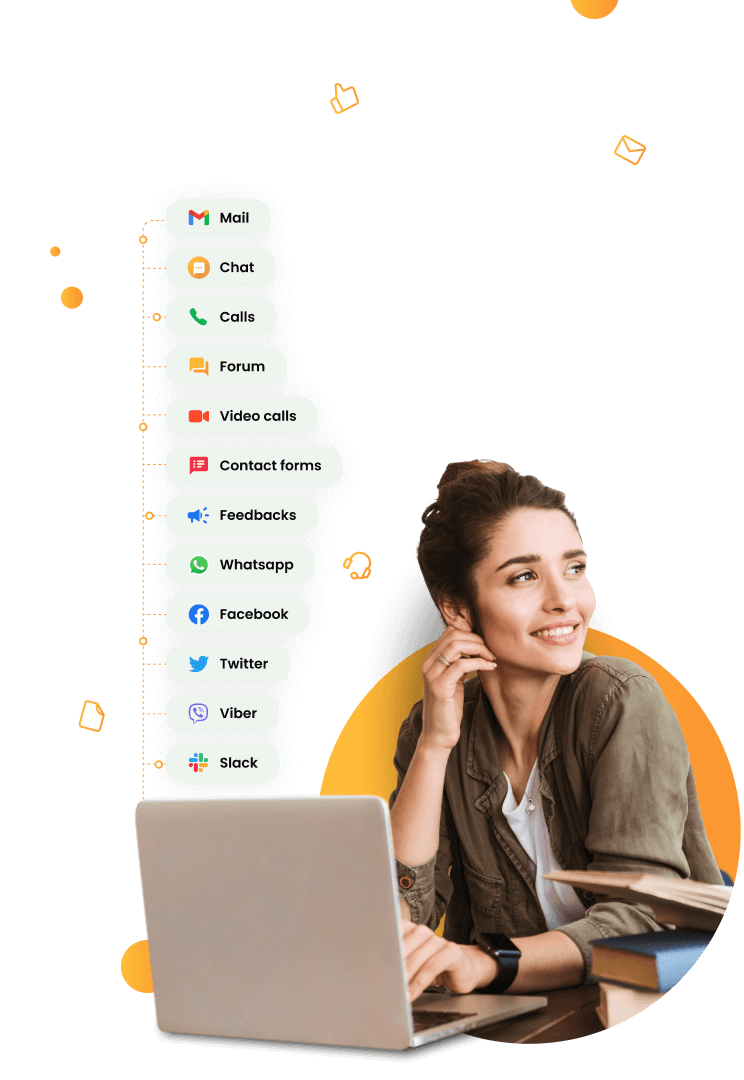
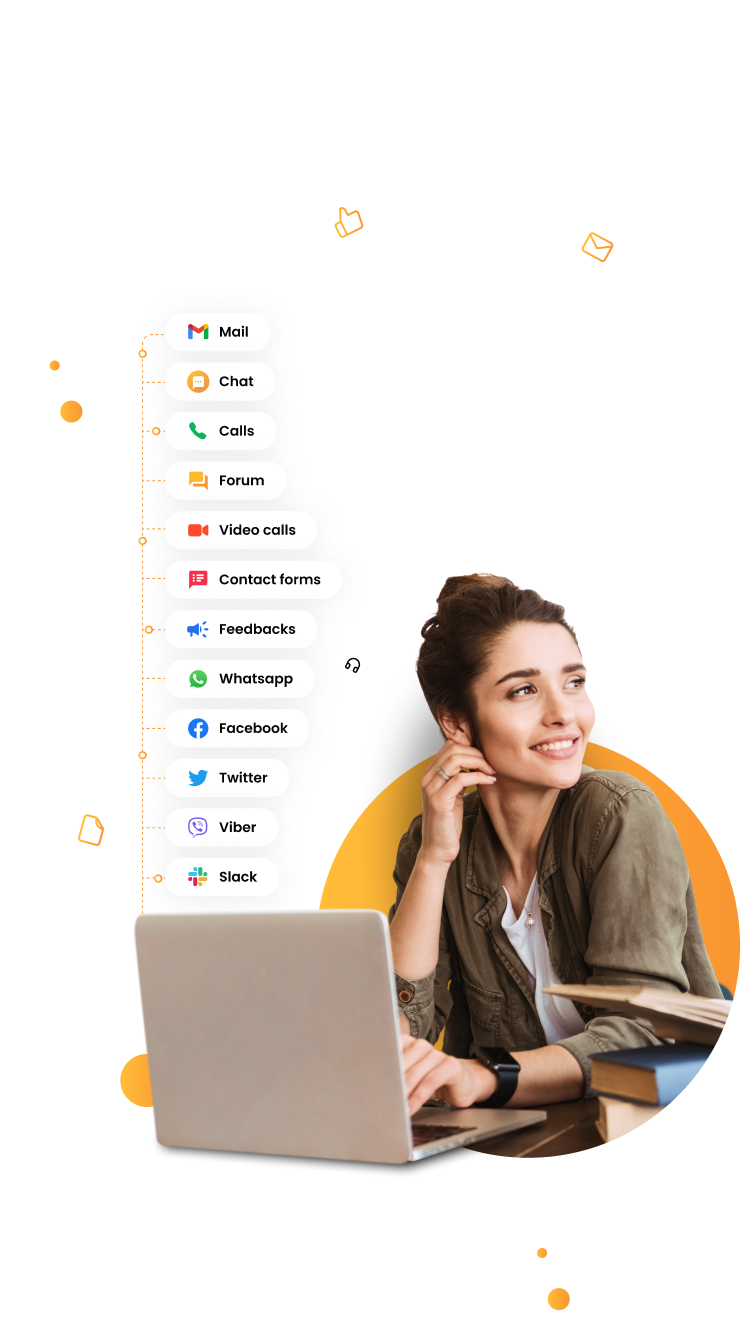
fix: layout changes and fixes

diff --git a/assets/styles/pages/TrialRedesign.scss b/assets/styles/pages/TrialRedesign.scss
@@ -29,10 +29,12 @@
 	$width-left-sm: 34em;
 	$bg-radius: 1.25em;
 
-	@include color(color, secondary-background);
+	@include color(background-color, main-background);
 	display: block;
 
 	@media (min-width: $breakpoint-tablet-landscape) {
+
+		@include color(background-color, secondary-background);
 		display: flex;
 	}
 
@@ -92,6 +94,18 @@
 	}
 
 	&__sidebar {
+		display: none;
+
+		&::before {
+
+			@include posCustom(0, initial, 0, 0);
+			content: "";
+			position: absolute;
+			z-index: 1;
+			display: block;
+			width: $width-left-sm;
+			background: url(../../images/trial_sidebar_bg.png) 63% center no-repeat;
+		}
 
 		&__inner {
 			position: relative;
@@ -100,40 +114,30 @@
 		}
 
 		&__content {
+			position: absolute;
+			z-index: 5;
+			top: 0;
+			right: 5%;
+			width: 55%;
 
 			ul:not([class]) {
 				margin-bottom: 0;
+
+				li {
+					font-size: 0.875rem;
+				}
 			}
 		}
 
 		&__title {
 			font-weight: $font-weight-semi;
-			font-size: 1.5em;
+			font-size: 1.2em;
 			line-height: 1.3;
 		}
 
 		@media (min-width: $breakpoint-tablet-landscape) {
 			display: flex;
 			width: $width-left-sm;
-
-			&::before {
-
-				@include posCustom(0, initial, 0, 0);
-				content: "";
-				position: absolute;
-				z-index: 1;
-				display: block;
-				width: $width-left-sm;
-				background: url(../../images/trial_sidebar_bg.png) 63% center no-repeat;
-			}
-
-			&__content {
-				position: absolute;
-				z-index: 5;
-				top: 0;
-				right: 2%;
-				width: 48%;
-			}
 		}
 
 		@media (min-width: $breakpoint-desktop-box) {
@@ -143,20 +147,18 @@
 				width: $width-left;
 				background-position: left center;
 			}
-		}
-
-		@media (max-width: ($breakpoint-tablet-landscape - 1)) {
-			padding: 2em $wrapper-padding 3em $wrapper-padding;
-
-			&__inner {
-				display: flex;
-				flex-direction: column;
-				justify-content: center;
-				align-items: center;
-			}
 
 			&__content {
-				text-align: center;
+				right: 2%;
+				width: 48%;
+
+				ul:not([class]) li {
+					font-size: 1rem;
+				}
+			}
+
+			&__title {
+				font-size: 1.5em;
 			}
 		}
 	}
@@ -383,11 +385,8 @@
 
 		@media (max-width: ($breakpoint-tablet-landscape - 1)) {
 
-			@include color(background-color, main-background);
 			padding-top: 3em;
 			padding-bottom: 3em;
-			border-top-left-radius: $bg-radius;
-			border-top-right-radius: $bg-radius;
 		}
 	}
 }
